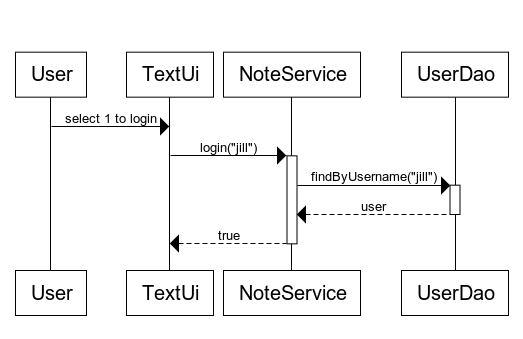
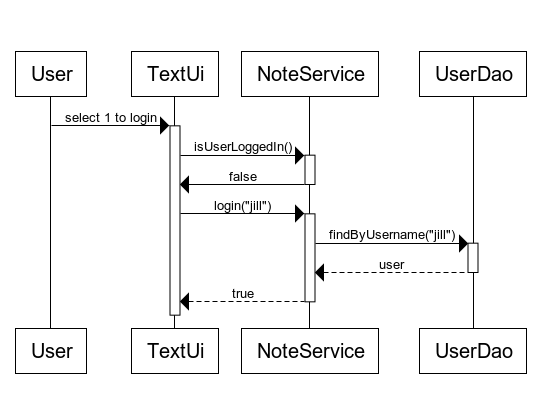
sekvenssikaavio update

Changed region(s): [[0.0, 0.118, 0.979, 0.944]]

diff --git a/dokumentaatio/arkkitehtuuri.md b/dokumentaatio/arkkitehtuuri.md
@@ -82,7 +82,7 @@ Kun käyttäjä syöttää käyttöliittymään login-toiminnallisuutta vastaava
 
 ![sequence diagram](https://raw.githubusercontent.com/tsalohei/bike-tracker/master/dokumentaatio/kuvat/sequenceDiagramUserLogsIn.png "Sequence diagram")
 
-Kun käyttäjä on antanut komennon 1, tekstikäyttöliittymä tarkastaa NoteService:n metodia kutsumalla, että järjestelmässä ei ole ketään kirjautuneena sisään. Mikäli asia on kunnossa, tekstikäyttöliittymän login-metodi kutsuu NoteService-olion omaa login-metodia antaen sille parametriksi käyttäjän antaman käyttäjätunnuksen. 
+Kun käyttäjä on antanut komennon 1, tekstikäyttöliittymä tarkastaa NoteService:n isUserLoggedIn-metodia kutsumalla, että järjestelmässä ei ole ketään kirjautuneena sisään. Mikäli asia on kunnossa, tekstikäyttöliittymän login-metodi kutsuu NoteService-olion omaa login-metodia antaen sille parametriksi käyttäjän antaman käyttäjätunnuksen. 
 
 NoteService-olio kutsuu UserDao:n metodia findByUsername, antaen sille parametriksi äsken käyttöliittymästä saadun käyttäjänimen. Jos käyttäjänimeä vastaava käyttäjä löytyy, UserDao antaa sen paluuarvona NoteServicelle. Tämän jälkeen NoteService asetettaa kyseisen käyttäjän kirjautuneeksi sisään, ja palauttaa käyttöliittymään arvon true.
 
@@ -95,7 +95,7 @@ Kun käyttäjä syöttää käyttöliittymään create new note -toiminnallisuut
 
 Aluksi tekstikäyttöliittymä tarkastaa NoteService:n isUserLoggedIn-metodia kutsumalla, että komennon 3 antanut käyttäjä on myös kirjautunut sisään järjestelmään. Mikäli näin on, tekstikäyttöliittymän createNote-metodi kutsuu NoteService-olion omaa createNote-metodia antaen sille parametriksi käyttäjän antamat tiedot: päivämäärän, kilometrimäärän, ja tekstimuistiinpanot. NoteService-oliolla on tieto siitä, kuka on sovelluksen senhetkinen, sisäänkirjautunut käyttäjä. 
 
-NoteService-olio kutsuu NoteDao:n metodia createNote, antaen sille parametriksi kaikki tiedot mitä äsken sai itse käyttöliittymästä, ja sen lisäksi tiedon sisäänkirjautuneesta käyttäjästä. NoteDao luo näitä tietoja vastaavan note:n tietokantaan, ja palauttaa note:n NoteService-oliolle. Jos palautus tapahtuu onnistuneesti, lähettää NoteService paluuarvona sitä kutsuneelle käyttöliittymän metodille arvon “true”. 
+NoteService-olion createNote-metodi kutsuu NoteDao:n metodia createNote, antaen sille parametriksi kaikki tiedot mitä äsken sai itse käyttöliittymästä, ja sen lisäksi tiedon sisäänkirjautuneesta käyttäjästä. NoteDao luo näitä tietoja vastaavan note:n tietokantaan, ja palauttaa note:n NoteService-oliolle. Jos palautus tapahtuu onnistuneesti, lähettää NoteService paluuarvona sitä kutsuneelle käyttöliittymän metodille arvon “true”. 
 
 
 ### Kokonaiskilometrimäärän tarkasteleminen
